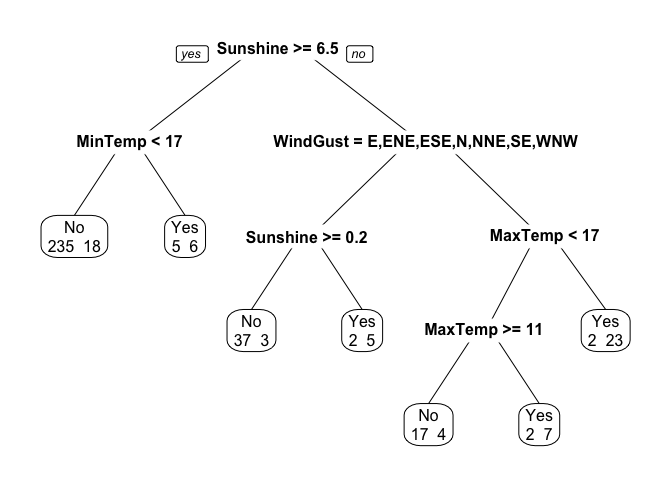
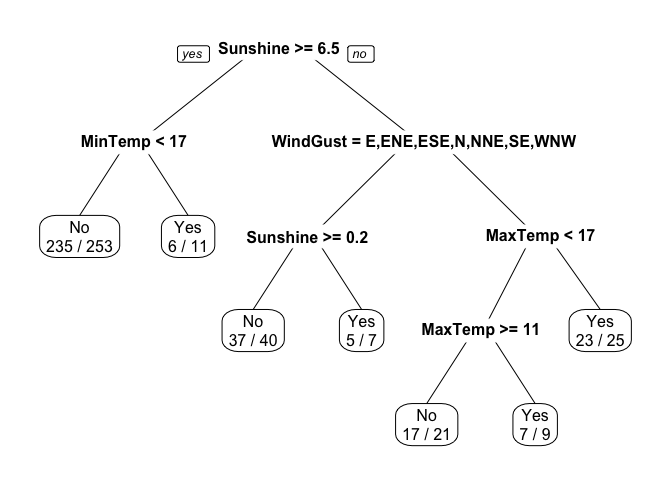
update tree diagram

diff --git a/README.md b/README.md
@@ -313,7 +313,7 @@ Depending on the type of decision tree model used, you can actually plot
 the tree and inspect the details. The following is a plot of the tree we
 have created.
 
-    prp(decision_tree_model, extra = 1) 
+    prp(decision_tree_model, extra = 2) 
 
 ![](README_files/figure-markdown_strict/plot_tree-1.png)
 
